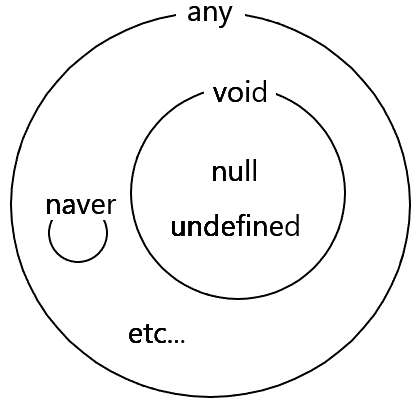
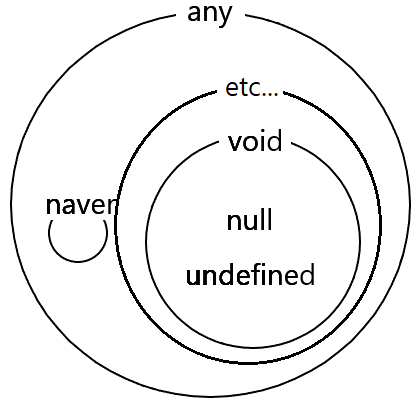
update

diff --git a/_posts/blog/2017-04-19-typescript-basic-types.md b/_posts/blog/2017-04-19-typescript-basic-types.md
@@ -27,11 +27,13 @@ tags:
 * `never`
 
 # boolean
+`boolean`타입을 지정
 ```ts
 let isDone: boolean = false;
 ```
 
 # number
+`number`타입을 지정
 ```ts
 let decimal: number = 6;
 let hex: number = 0xf00d;
@@ -40,23 +42,27 @@ let octal: number = 0o744;
 ```
 
 # string
+`string`타입을 지정
 ```ts
 let color: string = 'blue';
 ```
 
 # array
+`array`타입을 지정
 ```ts
 let list: number[] = [1, 2, 3];
 let genericList: Array<number> = [1, 2, 3];
 ```
 
 # tuple
+`tuple`타입은 특정구조의 배열을 표현할 수 있습니다. 표현된 배열구조 이후의 값은 union 유형이 사용됩니다.
 ```ts
 let x: [string, number]; // [string, number, string|number, string|number ... ]
 x = ['hello', 10]; // OK
 x = ['hello', 'world']; // Error
 x = ['hello', 10, 'world']; // OK
 x = ['hello', 10, 11]; // OK
+x = ['hello', 10, true]; // Error
 
 console.log(x[0].substr(1)); // OK
 console.log(x[1].substr(1)); // Error, 'number' does not have 'substr'
@@ -65,12 +71,14 @@ console.log(x[2].substr(1)) // Error, 'string' and 'number' don't both have 'toS
 ```
 
 # enum
+`enum`타입은 숫자 값 집합에 친숙한 이름을 지정할 수 있습니다.
 ```ts
 enum Color {Red = 1, Green, Blue}
 let color: Color = Color.Green;
 ```
 
 # any
+`any`타입은 알수 없는 변수타입에 지정하여 Typescript 타입검사를 하지 않도록 합니다.
 ```ts
 let notSure: any = 4;
 notSure = "maybe a string instead";
@@ -80,6 +88,7 @@ notSure.anythingMethod(); // OK
 ```
 
 # void
+`void`타입은 일반적으로 반환값이 없는 함수의 리턴타입에 지정합니다.
 ```ts
 function warnUser(): void {
   alert("This is my warning message");
@@ -88,17 +97,26 @@ let unusable: void = undefined;
 unusable = null;
 ```
 
-# undefined
+
+# null & undefined
+`null`과 `undefined`타입은 `--strictNullChecks`플래그가 설정되지 않은 한 `never`타입을 제외한 모든 타입에 설정될 수 있습니다.
+
+> 일반적으로 `--strictNullChecks` 플래그의 사용이 권장됩니다.
+
 ```ts
 let u: undefined = undefined;
-```
-
-# null
-```ts
 let n: null = null;
+let str: string;
+let num: number;
+
+str = undefined; // pass
+str = null; // pass
+num = undefined; // pass
+num = null; // pass
 ```
 
 # never
+`never`타입은 발생하지 않을 값의 타입을 나타냅니다. 항상 에러만을 throw 하거나 무한루프로 절대 반환되지 않는 함수의 리턴값에 일반적으로 사용됩니다.
 ```ts
 function error(message: string): never {
     throw new Error(message);
@@ -110,11 +128,33 @@ function infiniteLoop(): never {
 }
 ```
 
+# Type assertions
+Type assertions은 Typescript에게 개발자가 이 변수의 타입은 무엇이다라고 강제하는 것 입니다. 다른 언어의 형변환과 비슷하지만, 특별한 검사나 데이터 재구성을 수행하지 않습니다. TypeScript는 프로그래머가 타입 검사를 수행했다고 가정합니다.
+Type assertions은 'angle-bracket'(꺽쇠 괄호)와 `as` 문법 두가지 방법으로 지정이 가능합니다.
+
+## angle-bracket
+```ts
+let someValue: any = "this is a string";
+
+let strLength: number = (<string>someValue).length;
+```
+
+## as syntax
+```ts
+let someValue: any = "this is a string";
+
+let strLength: number = (someValue as string).length;
+```
+
+Typescript를 JSX와 함께 사용하는 경우에는 `as` 문법만 허용됩니다.
+
 # type scope
 
-확실한 이해를 위해 각 범위에 따른 집합관계를 표현하였다.
+확실한 이해를 위해 각 범위에 따른 집합관계를 표현하였습니다.
 
 ![typescript type scope](/images/2017/04/typescriptTypeScope.png)
+
 ## point  
 * naver와 void. any 3개의 비교
 * void와 null, undefined의 관계
+* null, undefined가 etc...에 들어가있는 형태

diff --git a/_drafts/2017/2017-04-25-typescript-type-inference.md b/_drafts/2017/2017-04-25-typescript-type-inference.md
@@ -1,0 +1,25 @@
+---
+layout: post
+title: TypeScript의 타입추론
+subtitle:
+slug: typescript-type-inference
+date: '2017-04-25 13:29:00 +0900'
+categories: blog
+author: vomvoru
+comments: true
+share: true
+tags:
+  - TypeScript
+---
+
+# 기본
+Typescript는 지정된 타입이 없을때 자동으로 타입을 유추해주는 'type inference'기능이 있습니다.
+
+```ts
+let x = 3;
+```
+
+위 코드에서 변수 x는 number로 타입이 유추되어 자동설정 됩니다. 이러한 추론은 변수나 속성을 초기화하고, 매개 변수 기본값을 설정하고, 함수 반환 유형을 결정할 때 (return) 발생합니다.
+
+# Best common type
+배열과 같이 여러가지 값의 타입에서 타입유추는 값마다의 타입중
